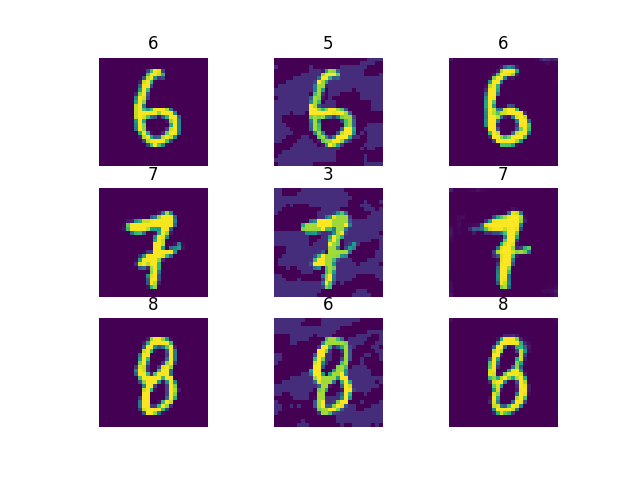
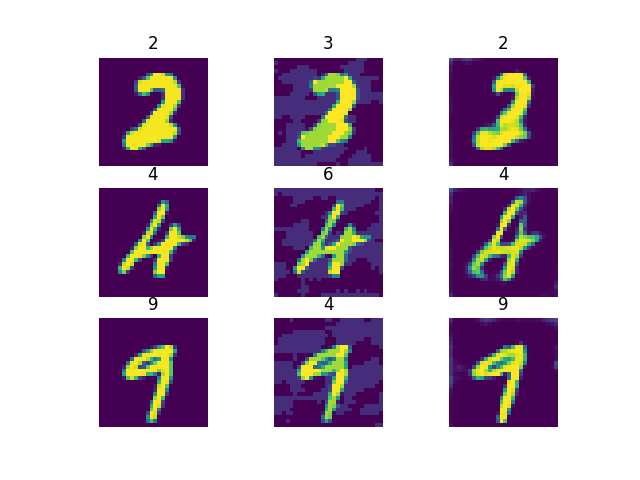
update

diff --git a/run_demo_earlier_methods.py b/run_demo_earlier_methods.py
@@ -163,7 +163,7 @@ optimizer = optim.Adam(model.parameters(), lr=0.01)
 pixelcnn = PyTorchClassifier(
     model=model, loss=loss_fn, optimizer=optimizer, input_shape=(1, 28, 28), nb_classes=10, clip_values=(0, 1)
 )
-preproc = PixelDefend(eps=5, pixel_cnn=pixelcnn)
+preproc = PixelDefend(eps=32, pixel_cnn=pixelcnn)
 X_def, _ = preproc(X_adv)
 preds_X_def = np.argmax(classifier.predict(X_def), axis=1)
 fooling_rate = np.sum(preds_X_def != np.argmax(y_test, axis=1)) / y_test.shape[0]
@@ -179,7 +179,6 @@ logger.info('Fooling rate after Jpeg Compression: %.2f%%', (fooling_rate  * 100)
 img_plot(y_test, preds_x_test, preds_X_adv, preds_X_def, x_test, X_adv, X_def, "JPEG_compression")
 
 # Inverse GAN https://arxiv.org/abs/1911.10291
-# note: Inverse GAN not trained well.
 # run adversarial-robustness-toolbox/utils/resources/create_inverse_gan_models.py
 # for obtaining (training) Inverse GAN model.
 sess = tf.Session()
@@ -243,7 +242,5 @@ logger.info('Fooling rate after Reverse Sigmoid: %.2f%%', (fooling_rate  * 100))
 
 """
 --- Memo ---
-InverseGAN (An Lin et al. 2019) # only used in tensorflow
-DefenseGAN (Samangouei et al. 2018) # unavailable in ART?
 Virtual adversarial training (Miyato et al., 2015) # unavailable in ART?
 """

diff --git a/README.md b/README.md
@@ -45,6 +45,8 @@ Tests using a CNN model for the MNIST dataset `models/mnistmodel.py`
 | Thermometer Encoding | 3.20% |
 | Pixel Defend | 48.90% |
 | Jpeg Compression | 46.90% |
+| InverseGAN | 10.20% |
+| DefenseGAN | 32.50% |
 
 
 Example of Feature Squeezing
